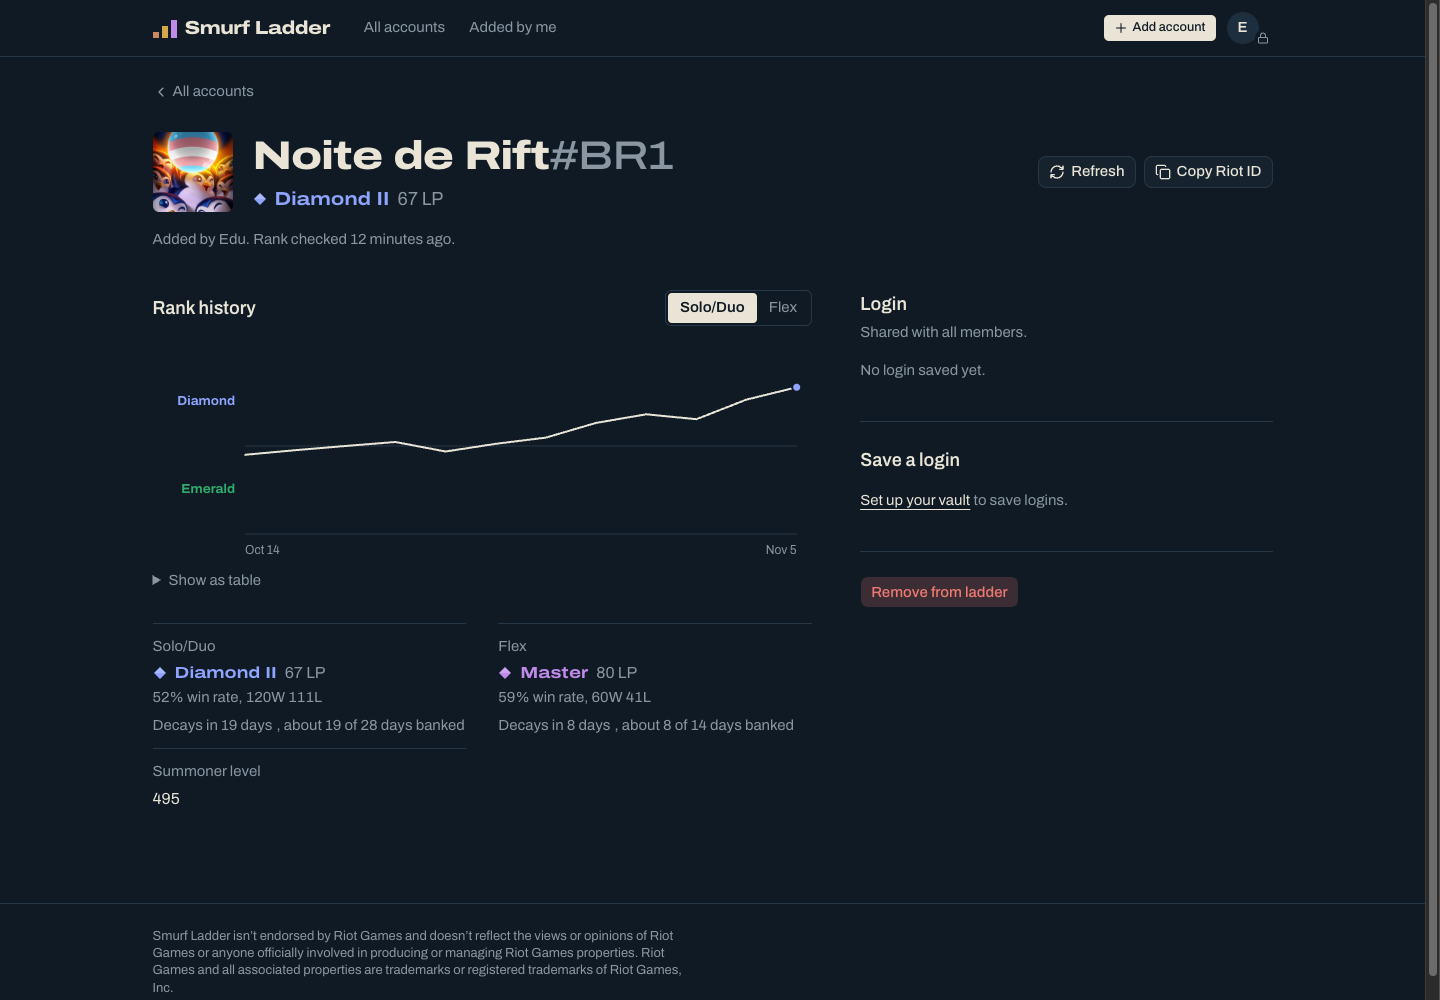
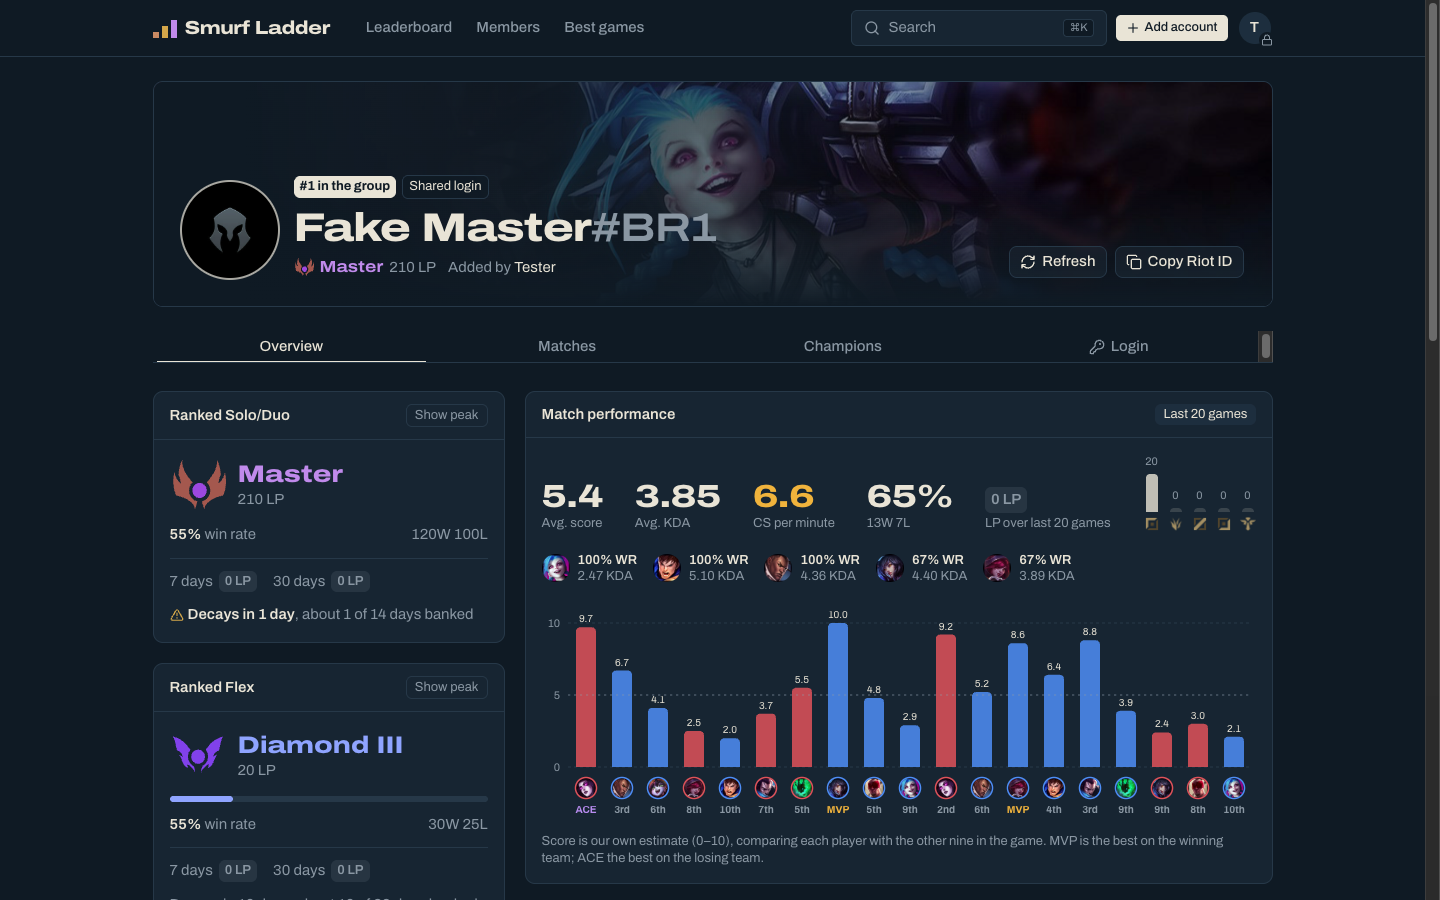
Polish: visible toggle selection, README for v2
- Selected toggles use the bone fill (role icons render dark on it).
- README: the three screens, game score and match-history loading,
  updated free-tier notes, fresh screenshots from fake local data.

Claude-Session: https://claude.ai/code/session_01AxuiCjx5Np4znLSSSYWKT9

diff --git a/src/components/ui/toggle.tsx b/src/components/ui/toggle.tsx
@@ -4,7 +4,7 @@ import { cn } from "#/lib/utils"
 import { Toggle as TogglePrimitive } from "radix-ui"
 
 const toggleVariants = cva(
-  "group/toggle inline-flex items-center justify-center gap-1 rounded-lg text-sm font-medium whitespace-nowrap transition-all outline-none hover:bg-muted hover:text-foreground focus-visible:border-ring focus-visible:ring-[3px] focus-visible:ring-ring/50 disabled:pointer-events-none disabled:opacity-50 aria-invalid:border-destructive aria-invalid:ring-destructive/20 aria-pressed:bg-muted data-[state=on]:bg-muted dark:aria-invalid:ring-destructive/40 [&_svg]:pointer-events-none [&_svg]:shrink-0 [&_svg:not([class*='size-'])]:size-4",
+  "group/toggle inline-flex items-center justify-center gap-1 rounded-lg text-sm font-medium whitespace-nowrap transition-all outline-none hover:bg-muted hover:text-foreground focus-visible:border-ring focus-visible:ring-[3px] focus-visible:ring-ring/50 disabled:pointer-events-none disabled:opacity-50 aria-invalid:border-destructive aria-invalid:ring-destructive/20 aria-pressed:bg-bone aria-pressed:text-rift data-[state=on]:bg-bone data-[state=on]:text-rift data-[state=on]:font-semibold dark:aria-invalid:ring-destructive/40 [&_svg]:pointer-events-none [&_svg]:shrink-0 [&_svg:not([class*='size-'])]:size-4",
   {
     variants: {
       variant: {

diff --git a/src/components/leaderboard/Leaderboard.tsx b/src/components/leaderboard/Leaderboard.tsx
@@ -320,7 +320,7 @@ export function Leaderboard({ accounts, me, search }: { accounts: Row[]; me: Me 
               All
             </ToggleGroupItem>
             {ROLES.map((r) => (
-              <ToggleGroupItem key={r} value={r} aria-label={ROLE_NAMES[r]} title={ROLE_NAMES[r]}>
+              <ToggleGroupItem key={r} value={r} aria-label={ROLE_NAMES[r]} title={ROLE_NAMES[r]} className="data-[state=on]:[&_img]:brightness-0">
                 <RoleIcon position={r} className="size-4" />
               </ToggleGroupItem>
             ))}

diff --git a/README.md b/README.md
@@ -2,18 +2,34 @@
 
 Every League of Legends account your group shares, on one ladder. Pick a tier and see which accounts can play there. No more logging in to each one to check its rank.
 
-![The ladder: accounts pinned on their tier, with the list below](docs/ladder.png)
+![The leaderboard: tier strip, filters and ranked rows with role, LP change, win rate, top champions and status](docs/ladder.png)
 
-- **The ladder.** Every account is pinned on its tier, from Iron to Challenger, for Solo/Duo or Flex. Click a tier to filter.
-- **Live status.** Ranks, win rates and "in game now" refresh automatically every few minutes.
-- **Decay countdown.** Diamond+ accounts show how many days are left before they start losing LP, separately for Solo/Duo and Flex. A filter lists everything that decays within 3 days.
-- **Rank history.** Each account keeps a chart of its LP over time.
-- **End-to-end encrypted logins.** Each account can store its login. You choose whether it's shared with every member or private to you. Logins are encrypted in the browser, and the server only ever holds ciphertext.
-- **Members only.** Members sign in with Discord and must be on an allowlist. Anyone can see the public ladder (Riot ID and rank). Owners and logins are visible to members only.
+Three main screens, inspired by [TrackDiff](https://trackdiff.com):
+
+- **Leaderboard.** Every account ranked for Solo/Duo or Flex, with a tier strip you can click to filter, main role, 24-hour LP change, win rate, top 3 champions, and whether it's in a game or about to decay. Filter by role, status or name.
+- **Account page.** A splash-art banner, ranked cards with peak, progress and 7/30-day LP, most played champions, LP history, and match history: every ranked game with its placement (MVP, ACE, 2nd–10th), LP change, KDA, CS, items, runes and both teams. A live tab shows the current game while the account is playing.
+- **Member page.** Everyone's accounts in one place, with combined top champions and match performance. Members choose their banner champion and a tagline.
+
+Also:
+
+- **Game score.** Our own 0–10 rating per game, comparing each player with the other nine (KDA, kill share, damage, gold, CS, vision). The **Best games** board ranks the group's top scores by week, month or season.
+- **Decay countdown.** Diamond+ accounts show the days left before they lose LP, per queue.
+- **End-to-end encrypted logins.** Each account can store its login, shared with every member or private to you. Logins are encrypted in the browser, and the server only ever holds ciphertext.
+- **Members only.** Members sign in with Discord and must be on an allowlist. The public sees only the leaderboard (Riot ID and rank); everything else needs signing in.
 
 It runs entirely on Cloudflare's free plan (Workers, D1, Cron Triggers) and the free Riot API.
 
-![An account’s page: rank history and decay countdown for each queue](docs/account.png)
+![An account page: splash banner, ranked cards, match performance with game scores, and match history](docs/account.png)
+
+![A member page: every account they added, top champions and combined match performance](docs/member.png)
+
+## How the game score works
+
+For each ranked game, every player gets six numbers: KDA (capped at 15), kill participation, share of the team's damage, share of the team's gold, CS per minute and vision per minute. Each is divided by the best value in the lobby, then weighted by role (supports lean on vision, junglers on kill participation). The weighted sums are spread so the lobby's best is 10 and its average is 5. MVP is the top player on the winning team, ACE the top player on the losing team. Remakes get no score. It's our own estimate, not an official Riot number.
+
+## How match history loads
+
+A cron job runs every 2 minutes with a budget of 40 Riot calls. Accounts in a game refresh every 5 minutes, accounts played in the last day every 10, and the rest every 30. Match IDs are only requested when an account's ranked game count goes up, and each match is fetched once, even when several tracked accounts played in it. Leftover budget backfills the last 50 ranked games of each account (100 for Diamond and up, to cover the 28-day decay window). Per-account stats are precomputed, so pages never scan match history.
 
 ## Stack
 
@@ -97,7 +113,7 @@ To exercise the refresh job without a Riot key, run `node scripts/fake-riot.mjs`
 
 ### Free-tier budget
 
-The cron runs every 5 minutes with a budget of 48 Riot calls, under the free plan's 50 outbound requests per run and Riot's 100 requests per 2 minutes. Each account costs 2 calls, plus 1 per Diamond+ queue for its match list, plus 1 per ranked game it hasn't seen before. The stalest accounts go first until the budget runs out, so a group of ~50 accounts cycles in well under an hour. A new Master account with a long backlog shows "Checking decay…" until its games are cached. Rank snapshots are written only when something changed.
+Each cron run stays under the free plan's 50 outbound requests and 50 D1 queries per invocation (it counts both and stops early), and under Riot's 100 requests per 2 minutes. Backfilling 40 accounts takes several hours the first time, then only new games are fetched. Rank snapshots are written only when something changed, and each account keeps its newest 100 games.
 
 ## Legal
 
